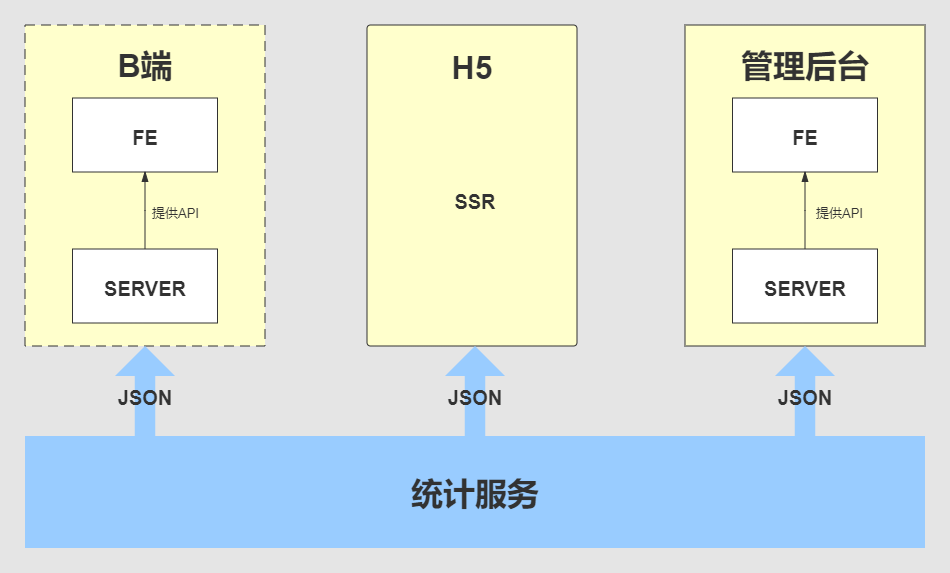
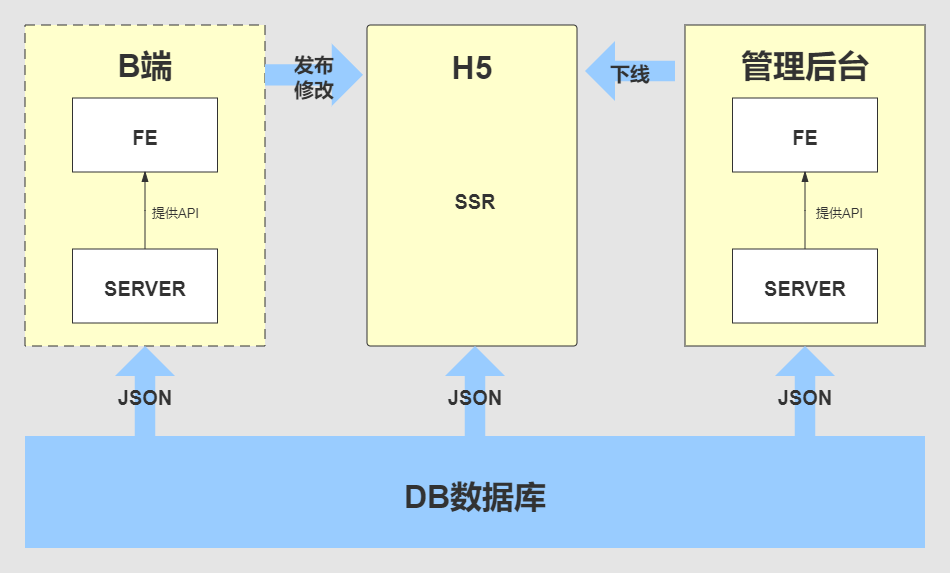
第一周 作业

Changed region(s): [[0.6105, 0.089, 0.7326, 0.178], [0.4274, 0.8307, 0.58, 0.8901], [0.2747, 0.089, 0.3968, 0.178]]

diff --git a/docs/pages/彩色积木/01-第一周笔记和作业.md b/docs/pages/彩色积木/01-第一周笔记和作业.md
@@ -6,48 +6,73 @@
 
 ## 范围
 
-整体设计、架构设计
+整个项目分为三种用户，H5 海报制作人，普通用户，管理员分别对应三端，并且每一类用户使用过程中都能形成一个数据闭环，有输入有输出，具体关系如下：
+![image.png](https://img.mukewang.com/wiki/5fdac5fd08b94b2514200948.jpg)
+
+1.海报制作人
+海报制作人通过 B 端制作和修改 H5 海报并进行发布和删除，另外海报制作人也能通过统计服务提供的 OpenAPI 查看产品的使用情况
+
+2.普通用户
+普通用户通过查看 H5 海报获得需要的信息，统计服务也通过普通用户查看分享的操作收集了海报制作人制作的海报的使用情况
+
+3.管理员
+管理员能通过 后台管理系统管理现有 H5 海报（例如：紧急下线），也可以通过管理后台查看项目的运行情况
 
 ## 模块设计
 
-### 模块拆分和关系图
-该项目对应三种用户 
+通过简单的需求分析，大概需要如下几个项目
+
+- B 端编辑器，前后端分离
+  - biz-editor-fe
+  - biz-editor-server
+- H5
+  - H5 SSR
+  - h5-server
+- 后台管理系统
+  - admine-fe
+  - admine-server
+- 统计系统
+- 组件库
 
 ![image.png](./images/week1/模块关系图.png)
 
-### 各个模块的功能解释
+### B 端编辑器
+- 模板列表
+- 用户管理： 登陆、注册
+- 作品的管理：删除、恢复、转赠、复制
+- 作品的统计
+- 作品的发布
 
-B 端和编辑器，前后端分离
-biz-editor-fe
-biz-editor-server
+### H5
 
-H5 SSR
-h5-server
+- 分享 —对业务增长负责
+- 查看
 
-管理后台 做前端分析
-admine-fe
-admine-server
+### 后台管理系统
 
-### 特殊模块说明：组件库、统计服务
+- 数据统计
+- 作品管理，能快速下线作品，防止有违规内容
+- 用户管理，能快速冻结用户，防止有违规用户
+- 模板管理，能控制哪些模块展示、哪些不展示
 
-独立业务组件库
-复用，减少冗余
+### 统计系统
 
-自研统计服务
-支持自定义事件统计
-支持 Open API
-第三方无法支持
+- 自研统计服务
+- 支持自定义事件统计
+- 支持 Open API
+
+### 组件库
+
+独立业务组件库，复用，减少冗余
 
 ## 核心数据结构设计
 
 ### 数据结构思路
-
 - 每个组件尽量符合 vnode 规范，方便学习和扩展，减少沟通成本
 - 用数组来组织数据，有序
 - 尽量使用引用关系，不要冗余
 
 ### 数据结构示例
-
 ```javascript
 {
         work: {
@@ -80,35 +105,24 @@ admine-server
 ```
 
 ### 数据流转
-
 - 创建作品：初始化一个 JSON 数据
 - 保存作品：修改 JSON
 - 发布作品：修改数据中发布状态字段
 - 屏蔽作品：修改数据中某个字段达到紧急下线管理
 - c 端浏览作品：获取 JSON SSR 渲染
-
 ![image.png](./images/week1/数据流转图.png)
 
 ## 扩展性保证
-
-### 扩展组件
-
-### 扩展编辑器功能，如锁定，隐藏
-
-### 扩展页面信息，如增加多语言
-
-### 扩展其他功能，如大数据分析和计算等
+- 扩展组件
+- 扩展编辑器功能，如锁定，隐藏
+- 扩展页面信息，如增加多语言
+- 扩展其他功能，如大数据分析和计算等
 
 ## 研发提效
-
-### 脚手架：创建、发布
-
-### 组件平台：积累业务组件，提高代码复用，降低维护成本
+- 脚手架：创建、发布
+- 组件平台：积累业务组件，提高代码复用，降低维护成本
 
 ## 运维保障
-
-### 线上服务和运维服务
-
-### 安全
-
-### 服务扩展性: 基于云服务，可以随时扩展机器和配置
+-线上服务和运维服务
+-安全
+-服务扩展性: 基于云服务，可以随时扩展机器和配置
